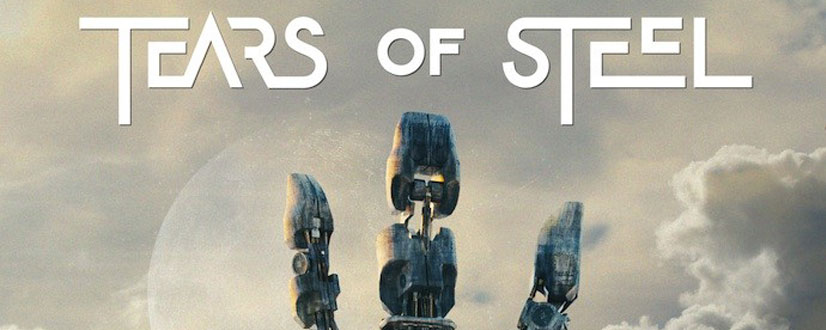
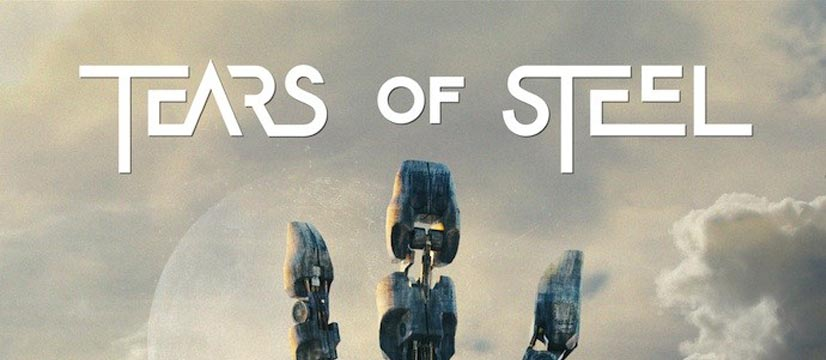
Improve video dimensions. Fix issues with the captions not showing up because of z-index. Improve the caption search method.

diff --git a/demos.html b/demos.html
@@ -28,7 +28,7 @@
 		<h3>Defaults</h3>
 		
 		<figure>
-			<video id="demo1" controls="controls" width="826" height="330" poster="website/images/tos-poster.jpg" preload="metadata" aria-describedby="full-descript">
+			<video id="demo1" controls="controls" width="826" height="360" poster="website/images/tos-poster.jpg" preload="metadata" aria-describedby="full-descript">
 				<source type="video/webm" src="https://acornmedia.herokuapp.com/media/tears_of_steel_480.webm" />
 				<source type="video/mp4" src="https://acornmedia.herokuapp.com/media/tears_of_steel_480.mp4" />
 				
@@ -67,7 +67,7 @@
 		<h3><code>accesslight </code> Child Theme</h3>
 		
 		<figure>
-			<video id="demo2" controls="controls" width="826" height="330" poster="website/images/tos-poster.jpg" preload="metadata" aria-describedby="full-descript">
+			<video id="demo2" controls="controls" width="826" height="360" poster="website/images/tos-poster.jpg" preload="metadata" aria-describedby="full-descript">
 				<source type="video/webm" src="https://acornmedia.herokuapp.com/media/tears_of_steel_480.webm" />
 				<source type="video/mp4" src="https://acornmedia.herokuapp.com/media/tears_of_steel_480.mp4" />
 				
@@ -108,7 +108,7 @@
 		<h3><code>Darkglass</code> theme and vertical volume slider</h3>
 		
 		<figure>
-			<video id="demo3" controls="controls" width="826" height="330" poster="website/images/tos-poster.jpg" preload="metadata" aria-describedby="full-descript">
+			<video id="demo3" controls="controls" width="826" height="360" poster="website/images/tos-poster.jpg" preload="metadata" aria-describedby="full-descript">
 				<source type="video/webm" src="https://acornmedia.herokuapp.com/media/tears_of_steel_480.webm" />
 				<source type="video/mp4" src="https://acornmedia.herokuapp.com/media/tears_of_steel_480.mp4" />
 				
@@ -148,7 +148,7 @@
 		<h3><code>darkglasssmall</code> Child Theme</h3>
 		
 		<figure>
-			<video id="demo4" controls="controls" width="826" height="330" poster="website/images/tos-poster.jpg" preload="metadata" aria-describedby="full-descript">
+			<video id="demo4" controls="controls" width="826" height="360" poster="website/images/tos-poster.jpg" preload="metadata" aria-describedby="full-descript">
 				<source type="video/webm" src="https://acornmedia.herokuapp.com/media/tears_of_steel_480.webm" />
 				<source type="video/mp4" src="https://acornmedia.herokuapp.com/media/tears_of_steel_480.mp4" />
 				
@@ -187,7 +187,7 @@
 		<h3><code>barebones</code> Theme</h3>
 		
 		<figure>
-			<video id="demo5" controls="controls" width="826" height="330" poster="website/images/tos-poster.jpg" preload="metadata" aria-describedby="full-descript">
+			<video id="demo5" controls="controls" width="826" height="360" poster="website/images/tos-poster.jpg" preload="metadata" aria-describedby="full-descript">
 				<source type="video/webm" src="https://acornmedia.herokuapp.com/media/tears_of_steel_480.webm" />
 				<source type="video/mp4" src="https://acornmedia.herokuapp.com/media/tears_of_steel_480.mp4" />
 				
@@ -225,7 +225,7 @@
 		<h3><code>barebones</code> Theme with native sliders</h3>
 		
 		<figure>
-			<video id="demo6" controls="controls" width="826" height="330" poster="website/images/tos-poster.jpg" preload="metadata" aria-describedby="full-descript">
+			<video id="demo6" controls="controls" width="826" height="360" poster="website/images/tos-poster.jpg" preload="metadata" aria-describedby="full-descript">
 				<source type="video/webm" src="https://acornmedia.herokuapp.com/media/tears_of_steel_480.webm" />
 				<source type="video/mp4" src="https://acornmedia.herokuapp.com/media/tears_of_steel_480.mp4" />
 				

diff --git a/acornmediaplayer/jquery.acornmediaplayer.js b/acornmediaplayer/jquery.acornmediaplayer.js
@@ -702,14 +702,19 @@
 			 * http://dev.opera.com/articles/view/accessible-html5-video-with-javascripted-captions/
 			 */
 			var updateCaption = function() {			
-				var now = acorn.$self[0].currentTime; // how soon is now?
-				var text = "";
-				for (var i = 0; i < captions.length; i++) {
+				// how soon is now?
+				var now = acorn.$self[0].currentTime,
+					text = '',
+					i,
+					captionsLength = captions.length;
+					
+				for (i = 0; i < captionsLength; i++) {
 					if (now >= captions[i].start && now <= captions[i].end) {
 						text = captions[i].content; // yes? then load it into a variable called text
 						break;
 					}
 				}
+				
 				acorn.$caption.html(text); // and put contents of text into caption div
 			};
 			

diff --git a/index.html b/index.html
@@ -21,7 +21,7 @@
 	
 	<section>
 		<figure>
-			<video controls="controls" width="826" height="330" poster="website/images/tos-poster.jpg" preload="metadata" aria-describedby="full-descript">
+			<video controls="controls" width="826" height="360" poster="website/images/tos-poster.jpg" preload="metadata" aria-describedby="full-descript">
 				<source type="video/webm" src="https://acornmedia.herokuapp.com/media/tears_of_steel_480.webm" />
 				<source type="video/mp4" src="https://acornmedia.herokuapp.com/media/tears_of_steel_480.mp4" />
 				

diff --git a/acornmediaplayer/acornmediaplayer.base.css b/acornmediaplayer/acornmediaplayer.base.css
@@ -82,6 +82,7 @@
 	display: none;
 	position: absolute;
 	bottom: 75px;
+	z-index: 12;
 	width: 100%;
 	
 	text-align: center;
